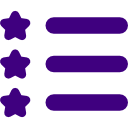
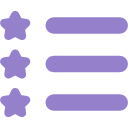
May 1, 2017 Update

diff --git a/resume.html b/resume.html
@@ -50,7 +50,7 @@
 
  .jumbotron h1{
   text-align: right;
-  color: #330166;
+  color: #9581CB;
   text-decoration: underline;
 
  }
@@ -78,7 +78,7 @@
  }
 
  .thumbnail:hover{
-  border: 10px solid black;
+  border: 10px solid white;
  }
 
  .work{
@@ -90,8 +90,8 @@
 
  @media (min-width: 200px) and (max-width: 992px) { 
     .jumbotron {
-   background-image: url(img/me2.png);
-  opacity: 0.8;
+   background-image: none;
+  opacity: 0.9;
   background-position: 0% 25%;
   border-radius: 20px;
   width: auto; 
@@ -108,8 +108,8 @@
     .jumbotron p{
   text-align: left;
   padding-left: 10px;
-  color: white; 
-  background-color: rgba(51, 1, 102,0.7);
+  color: #9581CB;
+   background-color: rgba(216, 255 , 248,0.9);
   border-radius: 20px;
 
  }
@@ -118,6 +118,9 @@
   }
 
   @media (max-width: 500px){
+      .jumbotron{
+    background-image: none;
+      }
       .jumbotron h1{
         padding-top: 30px;
       }

diff --git a/projects.html b/projects.html
@@ -163,6 +163,9 @@ Spring 2014.
   </div>
   </div>
    <div class="col-md-4">
+   <h4>
+    <i>Police Brutality Video</i></h4>
+
   <p>
     VIEWER DESCRETION ADVISED. Police brutality is an issue that is embedded subversive within society. I wanted to make a statement piece commenting on the dehumanization of the victims of police brutality, especially as illustrated by the media. The video is created using <b>Avidemux</b> and <b>Adobe Premier</b>. I manipulated the original videos using a technique called datamoshing, which, involved me opening the source code of the video, and reprogramming it so that certain frames are rendered broken, giving the video can “trippy” effect. All of my source videos are found on YoutTube. <br>
 <i>Credit to Rage Against the Machine for the cover of NWA’s F**k the Police.</i> <br>

diff --git a/index.html b/index.html
@@ -119,6 +119,7 @@ img{
 }
 
 .img-fluid{
+  margin-top: 20px;
   border: 20px solid;
   max-width: 100%;
   height: auto;
@@ -184,11 +185,11 @@ font-family: 'BlOCKCHAIN';
  <div class="container">
  <div class="row">
  <div class="col-md-4 col-sm-4 boxy">
-   <img src="img/me5.jpg" class="img-fluid">
+   <img src="img/Home.JPG" class="img-fluid">
 
  </div>
  <div class="wordies col-md-5 col-md-offset-5 col-sm-6 col-sm-offset-5">
- <H1>Dyadra Saulsbery </H1>
+ <H1>Dyadra Saulsberry </H1>
  <br>
  <br>
  <br>
